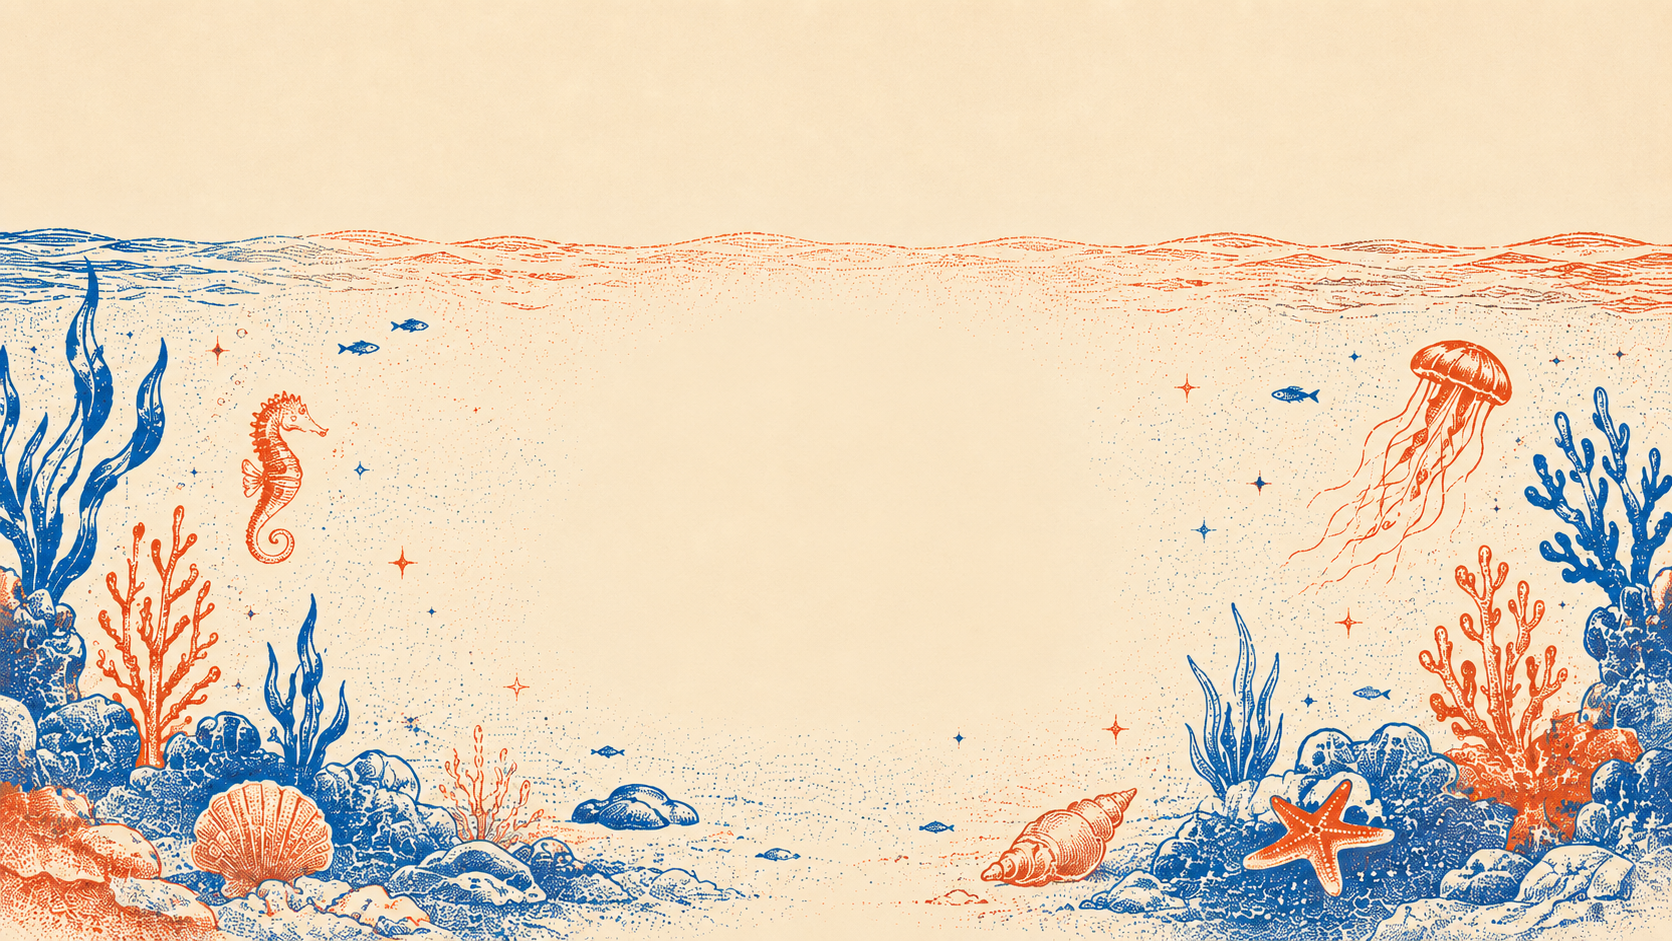
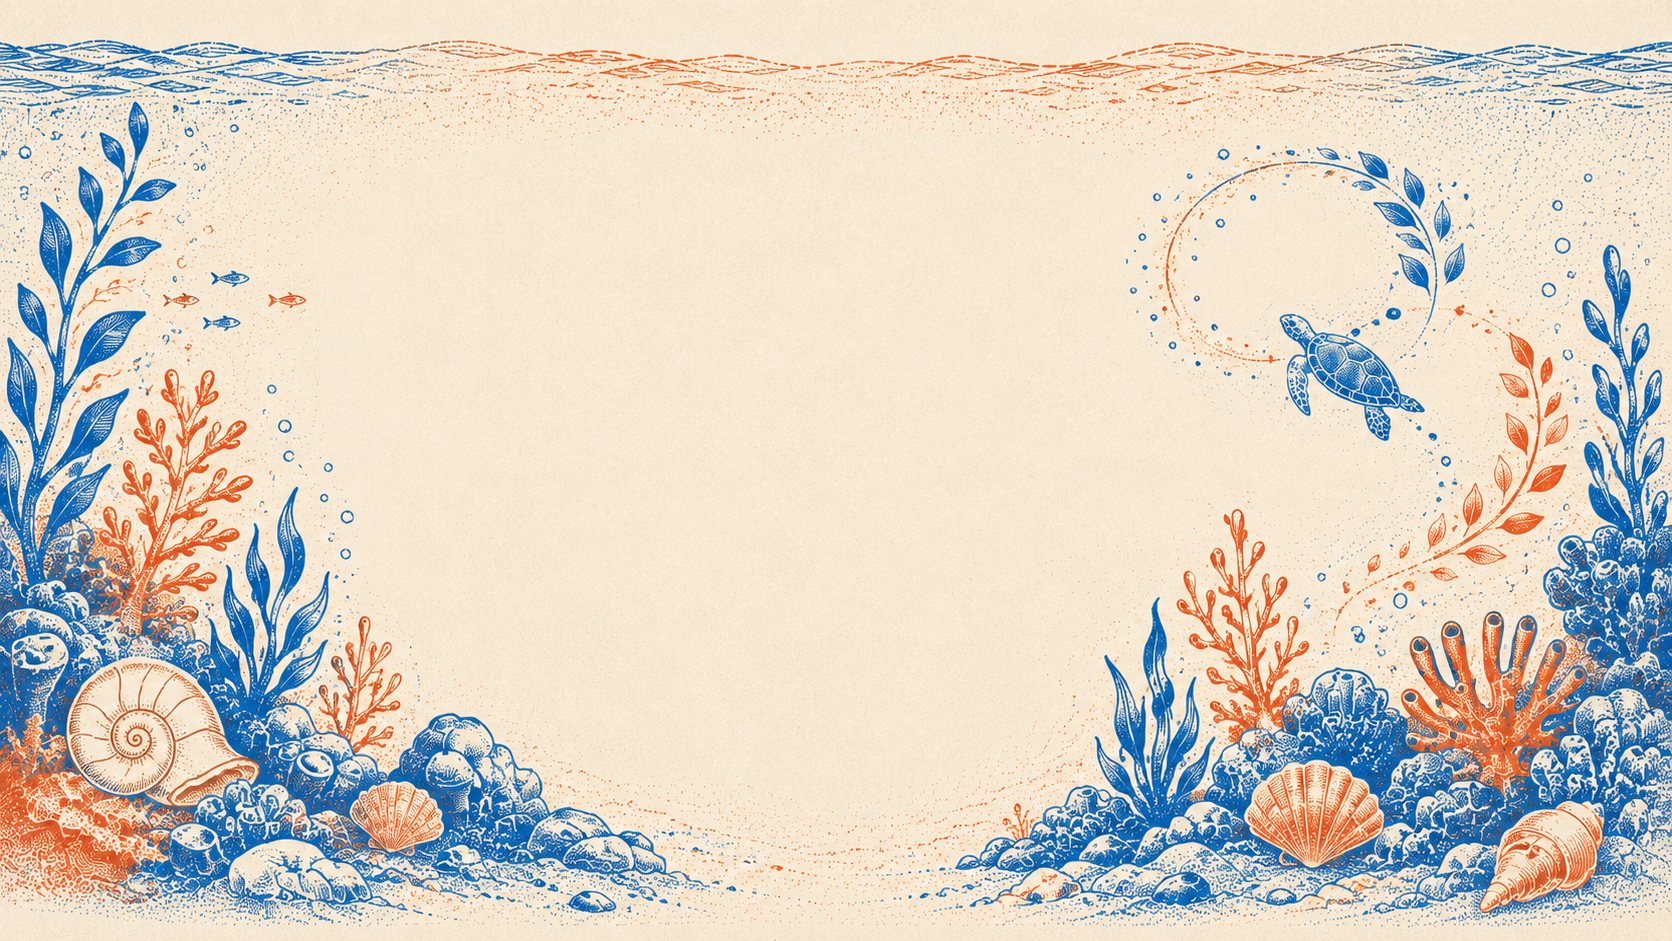
Updates on our story webpages with the updated images.

diff --git a/frontend/app/components/OurStory.tsx b/frontend/app/components/OurStory.tsx
@@ -26,7 +26,7 @@ export default function OurStory() {
           {/* Story Item 1 */}
           <div className={styles.storyItem}>
             <div className={styles.storyMarker}>
-              <div className={styles.markerDot}></div>
+              <img src="/driptea_ourstory_1.png" alt="Our story 2015" className={styles.markerImg} />
               <div className={styles.markerLine}></div>
             </div>
             <div className={styles.storyContent}>
@@ -35,14 +35,14 @@ export default function OurStory() {
               <p className={styles.storyText}>
                 It all started with a simple passion for authentic bubble tea. Our founder, inspired by traditional tea cultures, decided to bring a unique twist to modern beverage crafting. In a small shop in the heart of the city, DripTea was born.
               </p>
-              <div className={styles.storyIcon}>🍵</div>
+              
             </div>
           </div>
 
           {/* Story Item 2 */}
           <div className={styles.storyItem}>
             <div className={styles.storyMarker}>
-              <div className={styles.markerDot}></div>
+              <img src="/driptea_ourstory_2.png" alt="Our story 2017" className={styles.markerImg} />
               <div className={styles.markerLine}></div>
             </div>
             <div className={styles.storyContent}>
@@ -51,14 +51,14 @@ export default function OurStory() {
               <p className={styles.storyText}>
                 With our signature drinks gaining popularity, we expanded to three locations. We committed ourselves to using only the finest ingredients, carefully sourced from sustainable suppliers around the world.
               </p>
-              <div className={styles.storyIcon}>🌱</div>
+              
             </div>
           </div>
 
           {/* Story Item 3 */}
           <div className={styles.storyItem}>
             <div className={styles.storyMarker}>
-              <div className={styles.markerDot}></div>
+              <img src="/driptea_ourstory_3.png" alt="Our story 2019" className={styles.markerImg} />
               <div className={styles.markerLine}></div>
             </div>
             <div className={styles.storyContent}>
@@ -67,14 +67,14 @@ export default function OurStory() {
               <p className={styles.storyText}>
                 We launched our eco-friendly initiative, replacing single-use plastics with sustainable packaging. Our research team developed proprietary blends that revolutionized the taste of bubble tea while maintaining our commitment to environmental responsibility.
               </p>
-              <div className={styles.storyIcon}>♻</div>
+              
             </div>
           </div>
 
           {/* Story Item 4 */}
           <div className={styles.storyItem}>
             <div className={styles.storyMarker}>
-              <div className={styles.markerDot}></div>
+              <img src="/driptea_ourstory_4.png" alt="Our story 2021" className={styles.markerImg} />
               <div className={styles.markerLine}></div>
             </div>
             <div className={styles.storyContent}>
@@ -83,22 +83,22 @@ export default function OurStory() {
               <p className={styles.storyText}>
                 We embraced technology by launching our online ordering platform and AI-powered chatbot assistant. This allowed us to serve customers more efficiently while maintaining the personal touch that defines the DripTea experience.
               </p>
-              <div className={styles.storyIcon}>🤖</div>
+              
             </div>
           </div>
 
           {/* Story Item 5 */}
           <div className={styles.storyItem}>
             <div className={styles.storyMarker}>
-              <div className={styles.markerDot}></div>
+              <img src="/driptea_ourstory_5.png" alt="Our story 2026" className={styles.markerImg} />
             </div>
             <div className={styles.storyContent}>
               <h3 className={styles.year}>2026</h3>
               <h4 className={styles.storyTitle}>Today & Tomorrow</h4>
               <p className={styles.storyText}>
-                With over 50 locations worldwide and millions of satisfied customers, DripTea continues to innovate. Our vision remains unchanged: to craft exceptional beverages that bring joy to every cup, while respecting our planet and communities.
+                With over 35 locations worldwide, DripTea continues to innovate with more efficencies with Avy. Our vision remains unchanged: to craft exceptional beverages that bring joy to every cup, while respecting our planet and communities.
               </p>
-              <div className={styles.storyIcon}>🌍</div>
+              
             </div>
           </div>
         </div>

diff --git a/frontend/app/components/OurStory.module.css b/frontend/app/components/OurStory.module.css
@@ -1,8 +1,8 @@
 .container {
   width: 100%;
   overflow-x: hidden;
-  background: linear-gradient(to bottom, #f5f1ed, #faf8f5, #f5f1ed);
   min-height: 100vh;
+  background-color: #F9EACF;
 }
 
 /* Hero Section */
@@ -97,14 +97,8 @@
 }
 
 .timeline::before {
-  content: '';
-  position: absolute;
-  left: 50%;
-  transform: translateX(-50%);
-  width: 3px;
-  height: 100%;
-  background: linear-gradient(to bottom, #a98950, #c9b8a8, #d4c4b8);
-  top: 0;
+  /* removed vertical timeline line per design request */
+  display: none;
 }
 
 .storyItem {
@@ -161,37 +155,68 @@
   padding-top: 15px;
 }
 
-.markerDot {
-  width: 20px;
-  height: 20px;
-  border-radius: 50%;
-  background: white;
-  border: 4px solid #a98950;
+.storyMarker {
+  width: 50%;
+  display: flex;
+  justify-content: center;
+  align-items: flex-start;
+  padding-top: 15px;
   position: relative;
-  z-index: 10;
-  box-shadow: 0 0 0 3px rgba(169, 137, 80, 0.1);
-  transition: all 0.3s ease;
 }
 
-.storyItem:hover .markerDot {
-  background: #a98950;
-  box-shadow: 0 0 0 8px rgba(169, 137, 80, 0.2);
+.markerImg {
+  width: 384px;
+  height: auto;
+  object-fit: cover;
+  border-radius: 12px;
+  background: transparent;
+  padding: 0;
+  box-shadow: none;
+  z-index: 10;
+  /* disable transitions and hover transforms for accessibility */
+  transition: none !important;
+  max-width: 92%;
 }
 
 .markerLine {
-  position: absolute;
-  width: 30px;
-  height: 2px;
-  background: #a98950;
-  z-index: 9;
+  /* hide horizontal connector lines (removed brown lines) */
+  display: none;
 }
 
 .storyItem:nth-child(odd) .markerLine {
-  right: -30px;
+  right: -220px;
 }
 
 .storyItem:nth-child(even) .markerLine {
-  left: -30px;
+  left: -220px;
+}
+
+/* Responsive sizing for marker images */
+@media (max-width: 1200px) {
+  .markerImg {
+    width: 328px;
+    height: auto;
+  }
+  .storyItem:nth-child(odd) .markerLine {
+    right: -160px;
+  }
+  .storyItem:nth-child(even) .markerLine {
+    left: -160px;
+  }
+}
+
+@media (max-width: 768px) {
+  .markerImg {
+    width: 328px;
+    height: auto;
+    max-height: 220px;
+  }
+  .storyItem:nth-child(odd) .markerLine {
+    right: -120px;
+  }
+  .storyItem:nth-child(even) .markerLine {
+    left: -120px;
+  }
 }
 
 .storyContent {
@@ -265,16 +290,11 @@
   font-family: 'Segoe UI', Tahoma, Geneva, Verdana, sans-serif;
 } */
 
-.storyIcon {
-  font-size: 48px;
-  margin-top: 15px;
-  opacity: 0.7;
-  transition: all 0.3s ease;
-}
+/* removed emoji icon styling; emoji elements removed from markup */
 
-.storyItem:hover .storyIcon {
-  opacity: 1;
-  transform: scale(1.2);
+/* ensure all images/videos have no hover transition */
+:global(img), :global(video) {
+  transition: none !important;
 }
 
 /* Values Section */

diff --git a/frontend/app/globals.css b/frontend/app/globals.css
@@ -1,4 +1,3 @@
-
 :root {
   /* Brand theme variables */
   --color-primary: #FAF5CA; /* Beige */
@@ -175,3 +174,4 @@ button { touch-action: manipulation; }
   min-height: 44px;
   min-width: 44px;
 }
+
